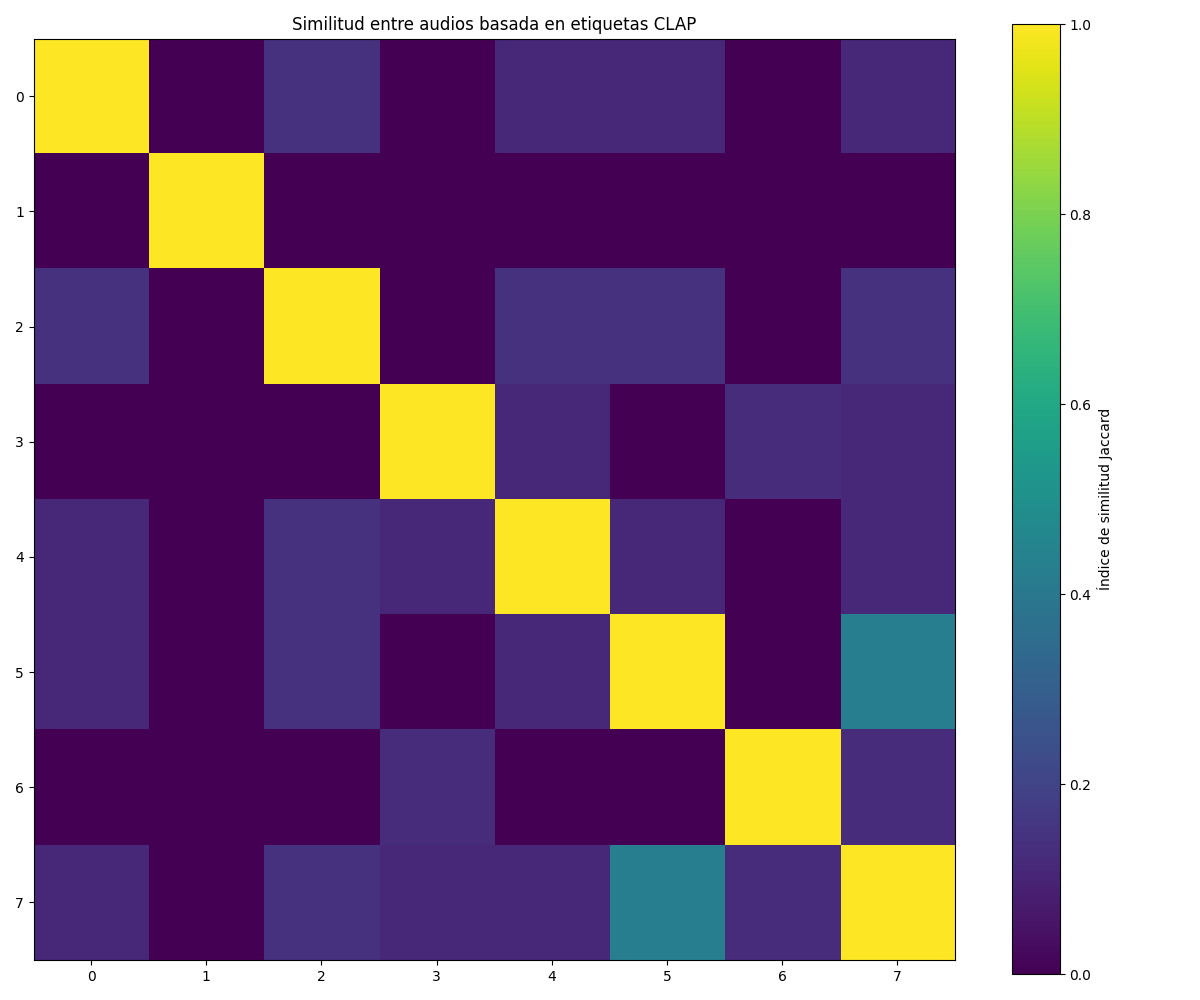
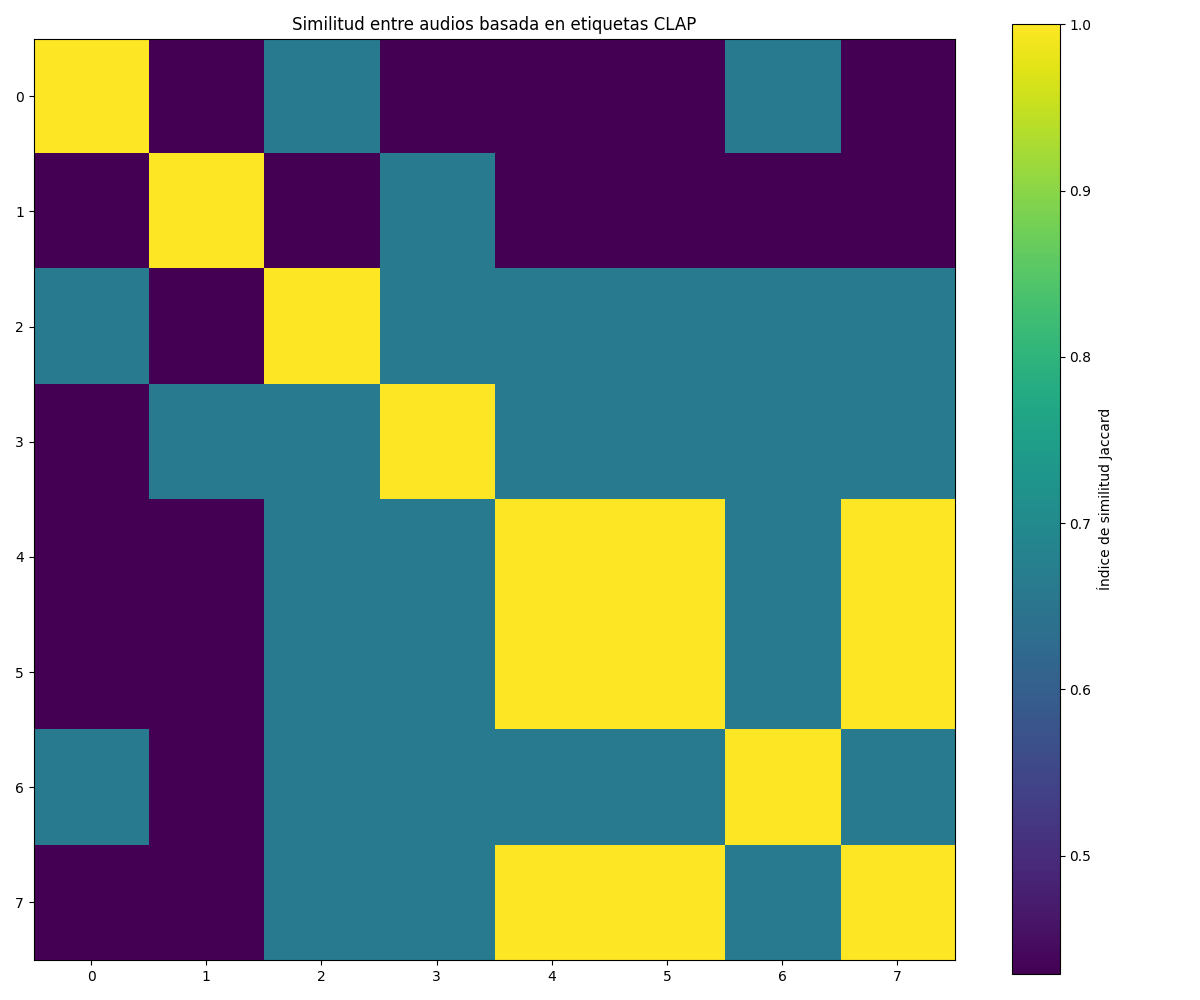
More tests using the CLAP model. Seems like we can increase accuracy by adding descriptions to the tags, although that seems very unrelieable

diff --git a/notebooks/multimodal_tagger.py b/notebooks/multimodal_tagger.py
@@ -2,7 +2,7 @@ import pandas as pd
 import numpy as np
 import os
 import torch
-from transformers import ClapModel, ClapProcessor
+from transformers import ClapModel, ClapProcessor, ClapConfig
 from sklearn.neighbors import NearestNeighbors
 from tqdm.auto import tqdm
 import matplotlib.pyplot as plt
@@ -77,15 +77,25 @@ class ClapTagger:
         with open(file_path, 'r', encoding='utf-8') as f:
             tags_text = f.read()
         
-        tags_list, processed_tags = tags_text.split(" "), []
-        non_supported_letters = set(["#","(",")","_"])
+        # Dividir por saltos de línea en lugar de espacios
+        tags_list = tags_text.splitlines()
+        processed_tags = []
+        
+        # No eliminar guiones bajos (_) ya que son parte del formato de etiquetas
+        non_supported_letters = set(["#","(",")",])
         
         for tag in tags_list:
+            # Omitir líneas vacías
+            if not tag.strip():
+                continue
+                
             tmp_tag = ""
             for letter in tag:
                 if letter not in non_supported_letters and not letter.isnumeric():
                     tmp_tag += letter
+                    
             if len(tmp_tag) != 0:
+                # Mantener los guiones bajos y conservar el formato original
                 processed_tags.append(tmp_tag.lower())
         
         return processed_tags
@@ -420,7 +430,7 @@ if __name__ == "__main__":
     # Configuración
     audio_dir = "uploads"  # Directorio con archivos de audio
     tmp_dir = "tmp" # Directorio para guardar los embeddings de los tags
-    tags_file = "tags_text.txt"  # Archivo con etiquetas
+    tags_file = "16tags.txt"  # Archivo con los tags
     output_file = "data/clap_tags.csv"  # Archivo para guardar resultados
     
     # Asegurar que existen las carpetas necesarias
